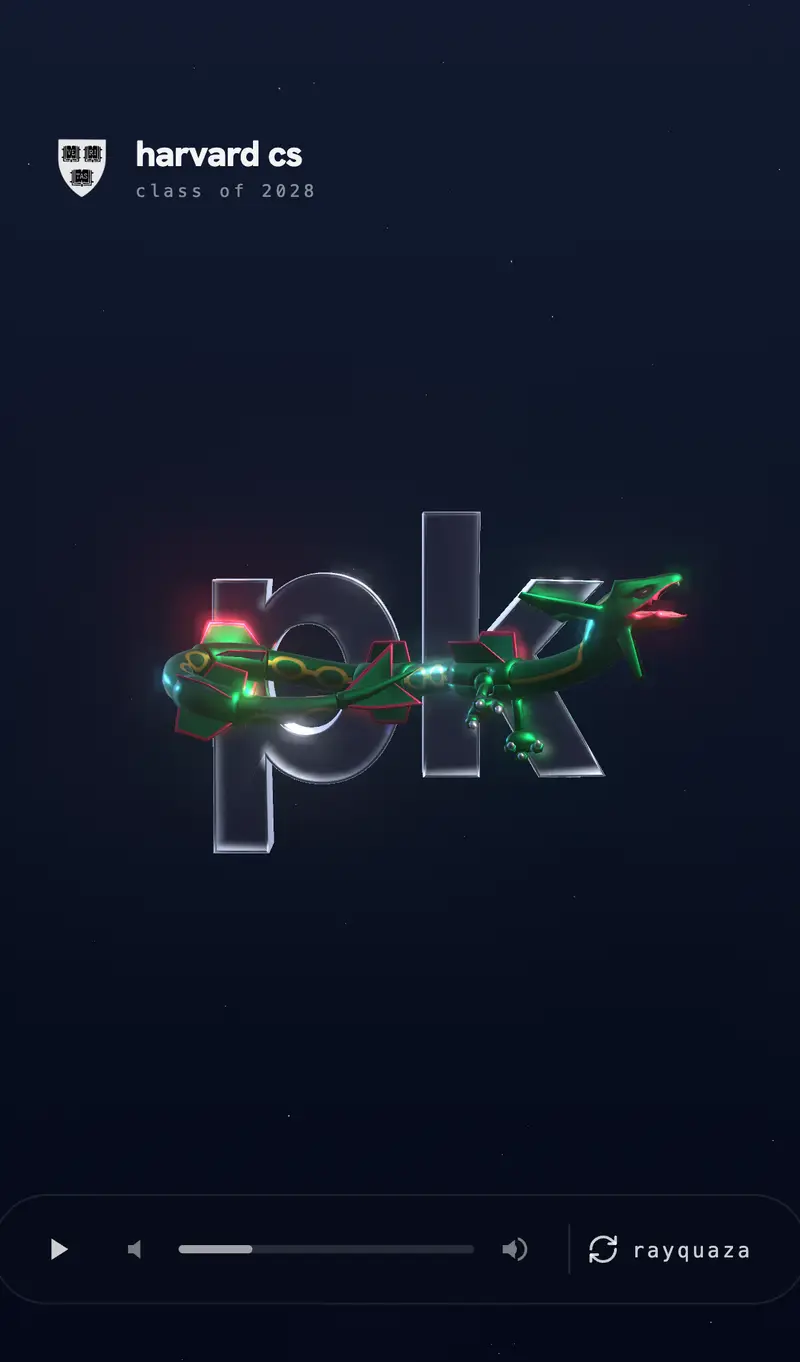
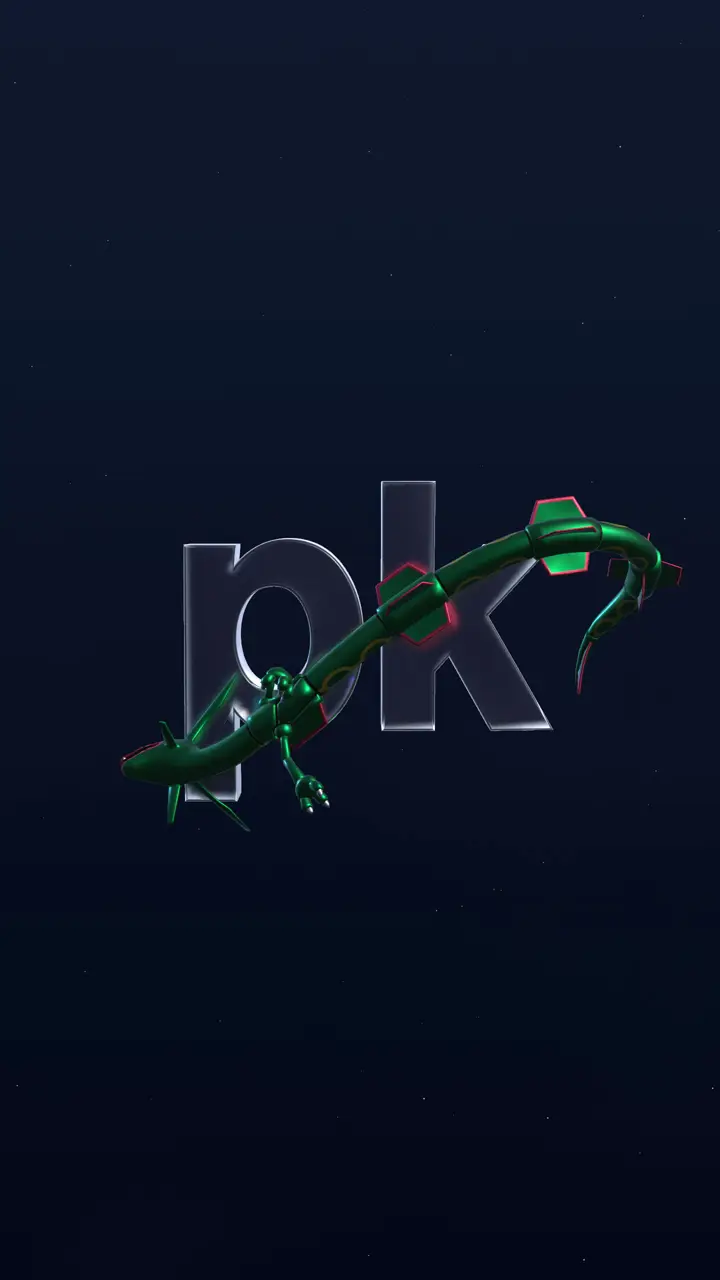
feat(content): janet.ai case study + founder credit + fresh posters
janet.ai entry rewritten from the ten-week audit: led JanetClaw from
Mac minis in the office to a self-serve cloud product. The learning
company becomes founder (chip, role, lede); section header Internships
renamed Work to fit.

Player: first tap anywhere retries a blocked autoplay (iOS Low Power
Mode paints an untappable play glyph over pointer-events:none video).
Posters regenerated from frame 0 of the new bakes with a cache-buster;
the old ones were pre-fix screenshots that flashed on the video<->live
toggle.

diff --git a/index.html b/index.html
@@ -31,8 +31,8 @@
                    letter-spacing:.06em; color:rgba(255,255,255,.18); }
     .hero.hero-3d { position:relative; width:100%; height:100svh; min-height:100svh;
                overflow:hidden;
-               background:#000 url('hero-poster.webp') center center / cover no-repeat; }
-    @media (max-width:640px){ .hero.hero-3d { background-image:url('hero-poster-mobile.webp'); } }
+               background:#000 url('hero-poster.webp?v=2') center center / cover no-repeat; }
+    @media (max-width:640px){ .hero.hero-3d { background-image:url('hero-poster-mobile.webp?v=2'); } }
     .hero-3d .hero-frame { position:absolute; inset:0; width:100%; height:100%;
                            border:0; display:block; opacity:0;
                            transition:opacity .55s ease; }
@@ -95,8 +95,8 @@
        long before the 700KB three.js bundle + 480KB model can arrive, so the
        hero LOOKS right immediately on slow connections (and stays right if
        WebGL never initialises at all). -->
-  <link rel="preload" as="image" href="hero-poster.webp" media="(min-width: 641px)">
-  <link rel="preload" as="image" href="hero-poster-mobile.webp" media="(max-width: 640px)">
+  <link rel="preload" as="image" href="hero-poster.webp?v=2" media="(min-width: 641px)">
+  <link rel="preload" as="image" href="hero-poster-mobile.webp?v=2" media="(max-width: 640px)">
 
   <style>
     @property --glow-col {
@@ -322,10 +322,10 @@
       height: 100svh;
       min-height: 100svh;
       overflow: hidden;
-      background: #000 url('hero-poster.webp') center center / cover no-repeat;
+      background: #000 url('hero-poster.webp?v=2') center center / cover no-repeat;
     }
     @media (max-width: 640px) {
-      .hero.hero-3d { background-image: url('hero-poster-mobile.webp'); }
+      .hero.hero-3d { background-image: url('hero-poster-mobile.webp?v=2'); }
     }
     /* the live scene crossfades over the poster once it signals ready */
     .hero-3d .hero-frame { opacity: 0; transition: opacity .55s ease; }
@@ -1918,7 +1918,7 @@
 <!-- ── work ── -->
 <section class="work" id="work">
   <div class="work-head">
-    <span class="section-label">Internships</span>
+    <span class="section-label">Work</span>
     <span class="section-label">(3)</span>
   </div>
 
@@ -1930,8 +1930,8 @@
       <span class="work-name">janet.ai</span>
       <div class="work-meta">
         <span class="work-type" data-type="internship">[ internship ]</span>
-        <span class="work-year">2025</span>
-        <span class="work-cats">ui design · dev</span>
+        <span class="work-year">2026</span>
+        <span class="work-cats">agent platform · infra</span>
       </div>
     </div>
 
@@ -1940,7 +1940,7 @@
       <span class="work-num">02</span>
       <span class="work-name">the learning company</span>
       <div class="work-meta">
-        <span class="work-type" data-type="internship">[ internship ]</span>
+        <span class="work-type" data-type="founder">[ founder ]</span>
         <span class="work-year">2025</span>
         <span class="work-cats">ai · full-stack</span>
       </div>
@@ -2409,34 +2409,40 @@
   const WORKS = {
     'janet-ai': {
       title: 'janet.ai',
-      year: '2025',
+      year: '2026',
       type: 'internship',
       accent: '#7C3AED',
-      lede: 'AI startup building agentic tooling for knowledge workers. I worked across the marketing site and product surface, designing flows, shipping UI in Next.js, and tightening the visual system as the product evolved.',
-      body: [],
+      lede: 'YC startup building AI employees. I led JanetClaw, the flagship. Took an agent living on Mac minis in the office and turned it into a cloud product you can buy.',
+      body: [
+        "Janet is a YC startup building persistent AI employees. Agents that live in your company's Slack, read your email, run your calendar, own real responsibilities. When I joined, the product was an agent running on Mac minis in the office. It worked. It could not be sold: no way for a stranger to sign up, no way to charge them, no way to run two customers without one reaching the other's data. Ten weeks later it was a cloud-hosted fleet strangers could sign up for and pay for, and I led that transformation.",
+        "The spine is a resumable Kubernetes provisioning state machine: sign up, put in a card, and the system births your agent. Stripe subscription billing, encrypted customer-supplied model keys, per-org token metering, health probing, and full teardown that doesn't leak a thing. The core of it shipped in one pull request: +8,552 lines across 50 files. Everything after was built on top.",
+        "Then I gave the agents channels. An iMessage channel built from nothing. I wrote a bare webhook capture server first to learn the real payload shape before writing product code, then HMAC verification, replay windows, dedupe, thread sub-sessions, media to agent vision. Slack the same: event webhooks plus an interactivity endpoint so buttons actually have a path home. Your agent texts you, and you text back.",
+        "Making that trustworthy was its own build. I wrote the security layer that decides whether an agent may read its owner's inbox: a two-layer gate enforced in code, not just prompts, so a jailbroken agent still can't exfiltrate. Plus a prompt-injection defense with shell-command unwrapping and per-run taint tracking. 474 tests on that gate alone.",
+        "Last came infrastructure for custom workflows: customers fire their own automations from a ticket, with ticket context injected, running on their own model account, dual-permission checks before any context leaves the platform. Then I proved the whole thing worked. Live signup rehearsals under throwaway identities, pass bar of zero manual database touches. First run failed and surfaced a real P0. Third run passed 16 of 18. JanetClaw went to production on July 20 on runbooks I wrote. 1,047 commits, 252,000 lines, ten weeks."
+      ],
       // drop image paths here (strings or { src, alt, caption } objects)
       // e.g. 'images/janet-1.png' or { src: 'images/janet-1.png', caption: 'home' }
       images: [],
-      tags: ['Next.js', 'TypeScript', 'React', 'Tailwind', 'Framer Motion'],
+      tags: ['Python', 'FastAPI', 'TypeScript', 'Kubernetes', 'Postgres', 'Stripe', 'Temporal', 'Composio'],
       meta: {
-        role: 'UI Design · Development',
-        timeline: 'Summer 2025',
-        team: 'Founding eng + design',
-        stack: 'Next.js · TS · Tailwind'
+        role: 'Led JanetClaw · flagship product',
+        timeline: 'June to Aug 2026',
+        team: 'Janet AI (YC) · 4 eng',
+        scale: '1,047 commits · 557 PRs'
       },
-      corner: 'JNT · 25'
+      corner: 'JNT · 26'
     },
 
     'tlc': {
       title: 'the learning company',
       year: '2025',
-      type: 'internship',
+      type: 'founder',
       accent: '#16803C',
-      lede: 'Solo-built an adaptive SAT platform. Sold for $10k. Stayed on as the engineering intern.',
+      lede: 'Solo-built an adaptive SAT platform. Sold for $10k.',
       body: [
         "A tutoring company founder wanted an adaptive SAT platform. I put together a team. They bailed. I built the whole thing myself.",
         "The core is a custom IRT (Item Response Theory) scoring engine that adjusts question difficulty to each user. I read papers on IRT and chess rating before picking it over ML, which overfits at small user counts. Next.js and TypeScript on the front. FastAPI on Postgres through Supabase on the back, with Clerk auth and PostHog and Sentry for observability. A RAG pipeline parses raw inputs into JSON schemas and validates 3,000+ SAT questions. Live with 500+ concurrent testers at sub-100ms latency.",
-        "Sold it for $10k. Stayed on as the engineering intern owning the production MVP release, CI/CD, API standards, and 150+ code reviews. The client didn't know my team had bailed until after I delivered."
+        "Sold it for $10k. I still own production: the MVP release, CI/CD, API standards, and 150+ code reviews. The client didn't know my team had bailed until after I delivered."
       ],
       images: [
         { src: 'TLCimgs/practice.webp',        layout: 'hero',   alt: 'adaptive practice question with AI tutor sidebar', caption: 'adaptive practice · with AI tutor' },
@@ -2446,7 +2452,7 @@
       ],
       tags: ['Next.js', 'TypeScript', 'Tailwind', 'FastAPI', 'Python', 'Postgres', 'Supabase', 'SQLAlchemy', 'Clerk', 'PostHog', 'Sentry'],
       meta: {
-        role: 'Software engineering intern',
+        role: 'Founder',
         timeline: 'Nov 2025 to present',
         location: 'Atlanta, GA',
         outcome: 'Sold for $10k'
